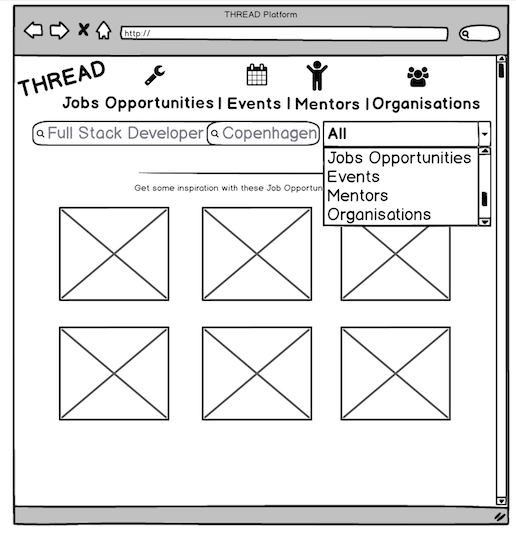
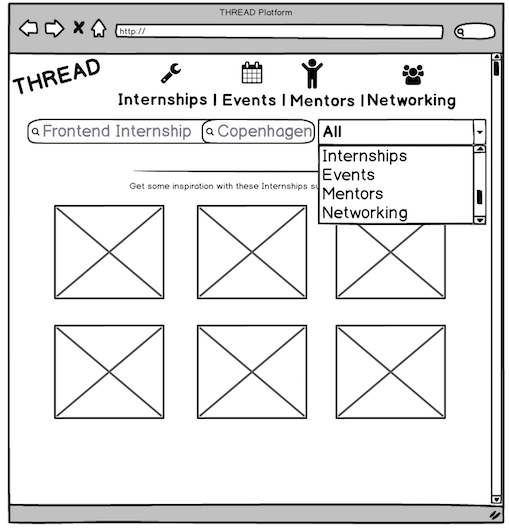
changes regarding business concepts and new images

diff --git a/README.md b/README.md
@@ -27,18 +27,18 @@ Learn more about our customer here: https://ctr.hum.ku.dk/research-programmes-an
 
 ## The Project Description
 
-### The goal for this project is to develop an online platform to facilitate the connections between refugee women and individuals or organisations which share an interest in textiles and craft activity.
+### The goal for this project is to develop an online platform to facilitate the connections between refugee women and individuals or partners or other organisations which share an interest in textiles and craft activity. The partners or other organisations are part of the THREAD network therefore they will be metioned as networking.
 
-Due to the complexity of this project we will only develop a platform where Jobs, Events, Calendar, Organisations and Individuals, which will be called Mentors for now on, will be available to be searched upon, listed and also inserted in the system. The goal is to built the List Views and Insert Views related to these objects and make is possible to search by text and visualize them in a Map.
+Due to the complexity of this project we will only develop a platform where Internship, Events, Calendar, Networking(Partners and other Organisations) and Individuals, which will be called Mentors for now on, will be available to be searched upon, listed and also inserted in the system. The goal is to built the List Views and Insert Views related to these objects and make is possible to search by text and visualize them in a Map.
 
 ## Work stories
 
 ### First iteration
 
-##### 1A: When I want to find a specific Job Ad I want to be able to search for the title and location at the same time;
+##### 1A: When I want to find a specific Internship Ad I want to be able to search for the title and location at the same time;
 ##### 1B: When I want to find a specific Event I want to be able to search for the title, location and date range at the same time;
 ##### 1C: When I want to find a specific Mentor I want to be able to search for the title and location at the same time;
-##### 1D: When I want to find a specific Organisation I want to be able to search for the name and location at the same time;
+##### 1D: When I want to find a specific type of Networking I want to be able to search for the name and location at the same time;
 
 
 ###### Build an UI using the mockup below as a guideline for:
@@ -52,7 +52,7 @@ Due to the complexity of this project we will only develop a platform where Jobs
       components for the view. 
       Note: Start date and end date pickers should be available if Event is selected.
 
-![MockupJobSearchResultView](./images/MockupJobSearchResultView.png)
+![MockupInternshipSearchResultView](./images/MockupInternshipSearchResultView.png)
 
       > A Result View with 2 different sub Views for Events, one with results on the Map 
       and another with results on a calendar - use https://storybook.js.org/ and 
@@ -70,19 +70,37 @@ Due to the complexity of this project we will only develop a platform where Jobs
 
 ![MockupMentorsResultListView](./images/MockupMentorsResultListView.png)
 
-Note: use the same logic and UI of the Mentors Results View for the Organisations Results View
+Note: use the same logic and UI of the Mentors Results View for the Networking Results View
 
 
 ###### Please check the JSON files provided through APIs
 
-API for JOB Opportunities https://my.api.mockaroo.com/job_ads.json?key=d38d0f10
+API for Internship https://my.api.mockaroo.com/internship.json?key=d38d0f10
 
 API for Events https://my.api.mockaroo.com/events.json?key=d38d0f10
 
 API for Mentors https://my.api.mockaroo.com/mentor.json?key=d38d0f10
 
-API for Organisations https://my.api.mockaroo.com/organisation.json?key=d38d0f10
+API for Networking https://my.api.mockaroo.com/networking.json?key=d38d0f10
 
+###### Images given by THREAD
+
+####### Logo 
+https://s3.us-east-2.amazonaws.com/hyf-thread-class05/thread-logo.png
+
+####### Internships 
+https://s3.us-east-2.amazonaws.com/hyf-thread-class05/thread-internship-1month.jpg
+https://s3.us-east-2.amazonaws.com/hyf-thread-class05/thread-internship-3month.jpg
+
+####### Events
+Lecture   https://s3.us-east-2.amazonaws.com/hyf-thread-class05/thread-event-lecture.jpg
+Catwalk   https://s3.us-east-2.amazonaws.com/hyf-thread-class05/thread-event-catwalk.jpg
+Workshop https://s3.us-east-2.amazonaws.com/hyf-thread-class05/thread-event-workshop1.jpg
+
+https://s3.us-east-2.amazonaws.com/hyf-thread-class05/thread-event-workshop2.jpg
+https://s3.us-east-2.amazonaws.com/hyf-thread-class05/thread-event-workshop3.jpg
+https://s3.us-east-2.amazonaws.com/hyf-thread-class05/thread-recruitment.jpg
+https://s3.us-east-2.amazonaws.com/hyf-thread-class05/thread-research.jpg
 
 ## Class Daily Agenda
 
